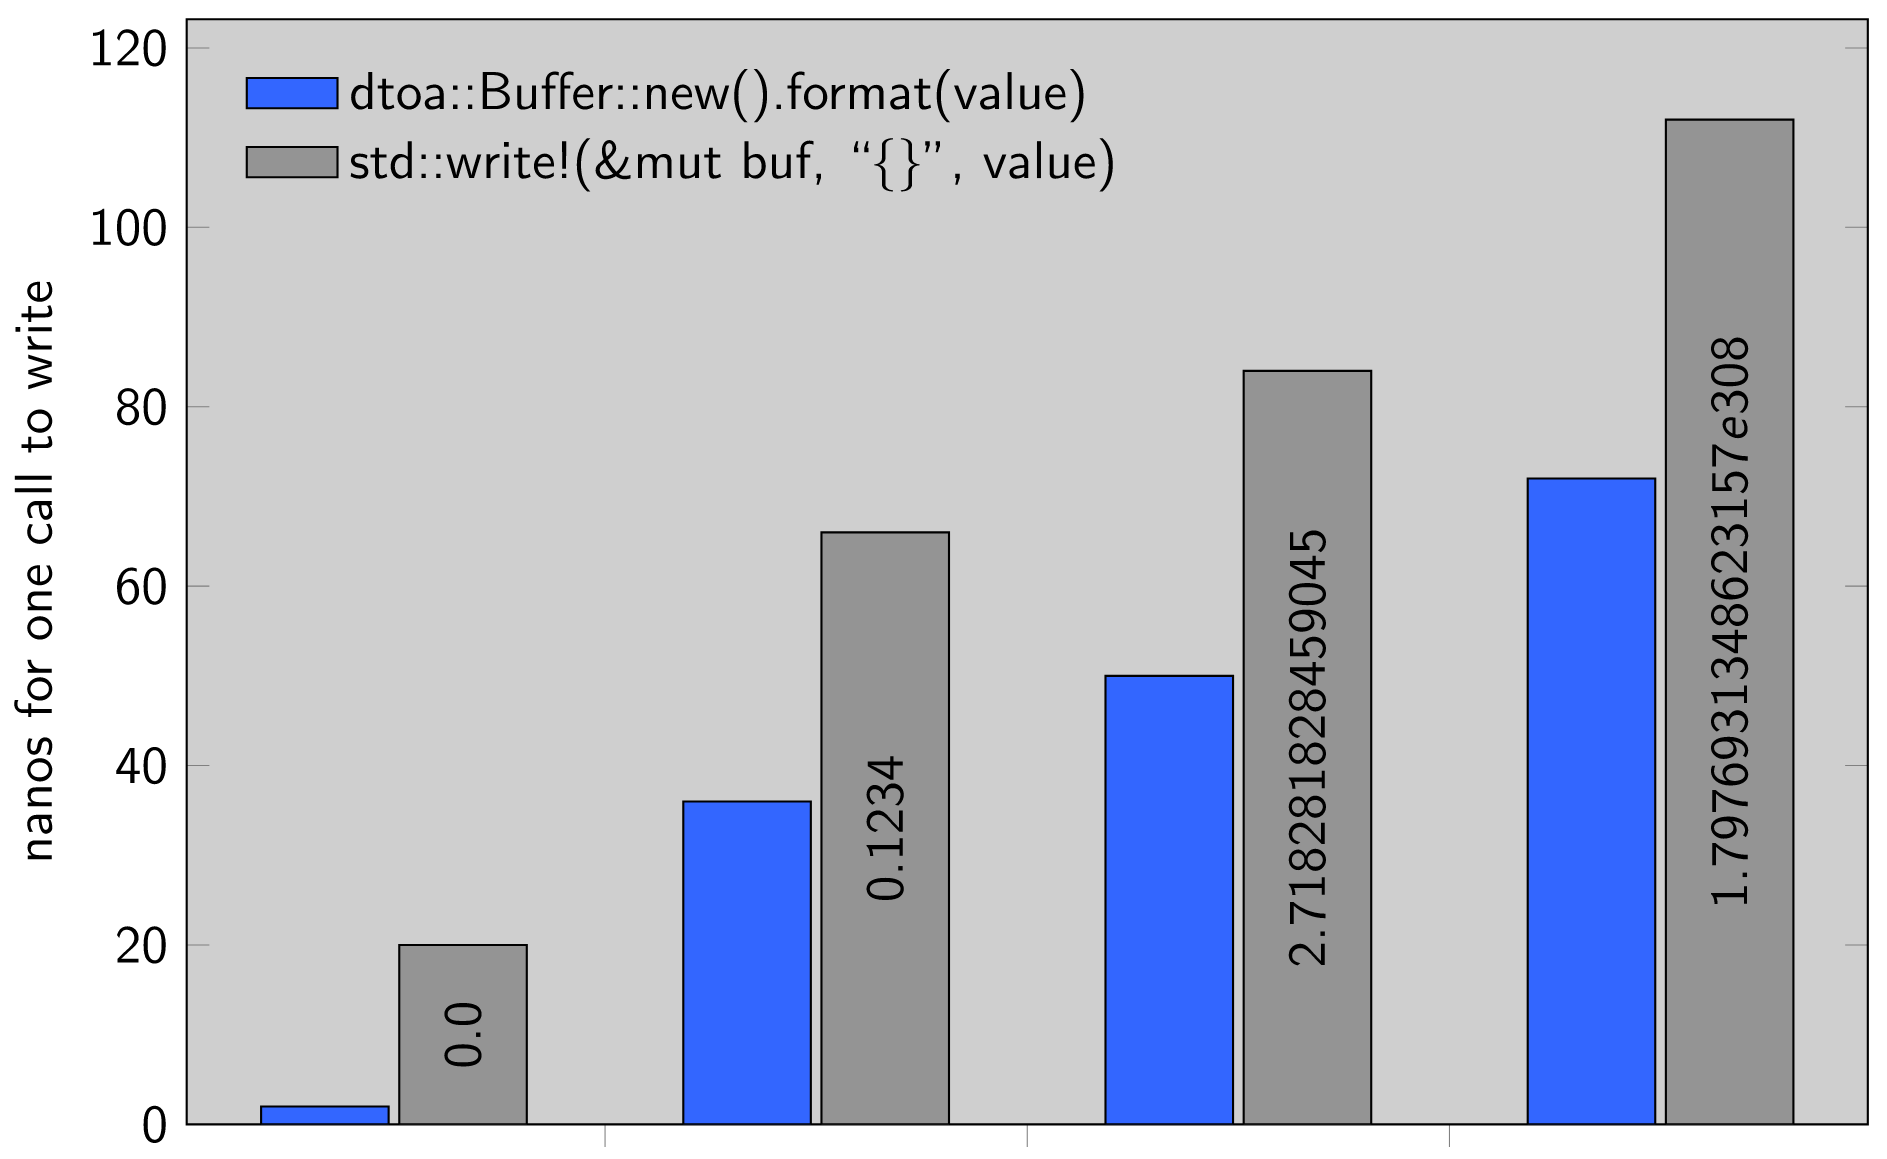
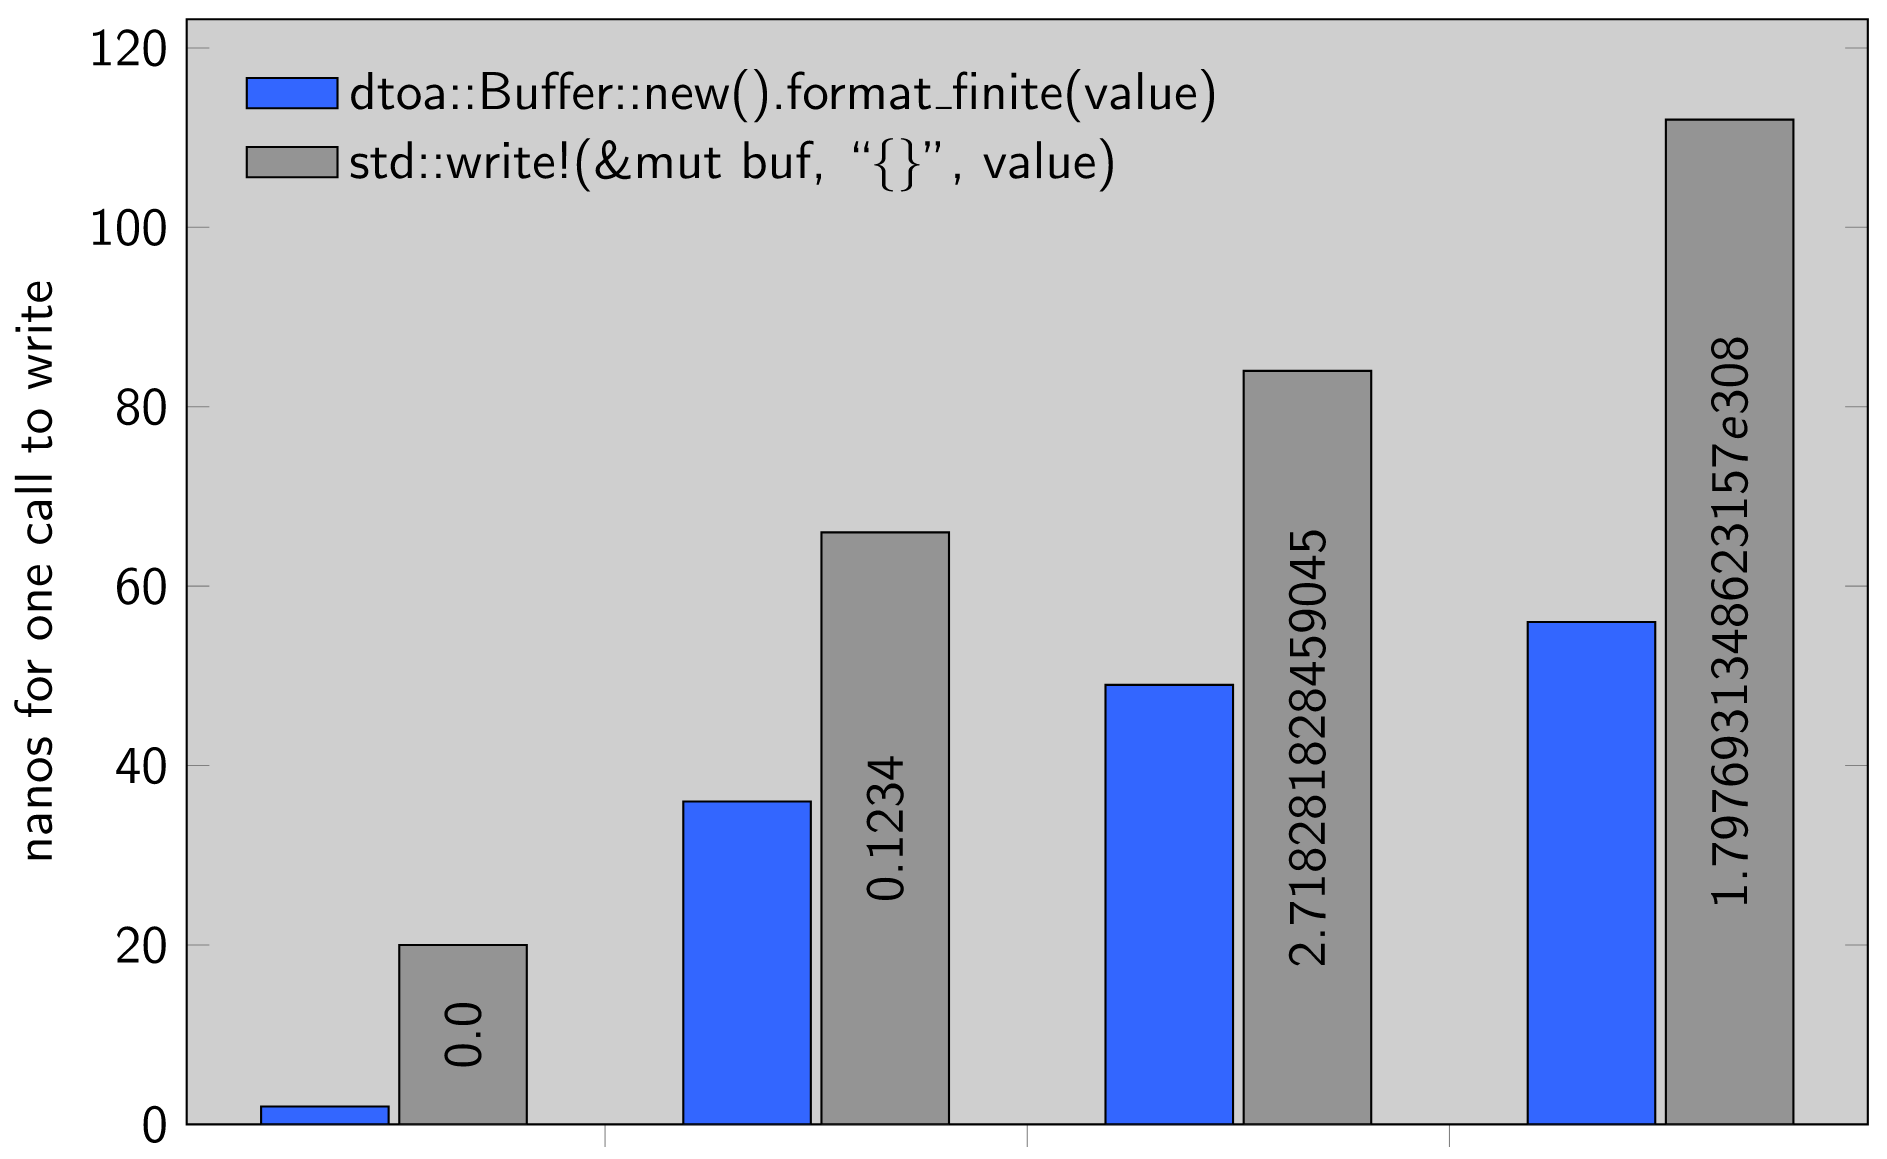
Switch to format_finite in benchmark to match ryu crate

Changed region(s): [[0.7992, 0.4038, 0.8914, 0.5591], [0.4918, 0.0621, 0.6455, 0.0932], [0.584, 0.5591, 0.6455, 0.5902]]

diff --git a/benches/bench.rs b/benches/bench.rs
@@ -18,7 +18,7 @@ macro_rules! benches {
                     let mut buffer = dtoa::Buffer::new();
 
                     b.iter(|| {
-                        let printed = buffer.format(black_box($value));
+                        let printed = buffer.format_finite(black_box($value));
                         black_box(printed);
                     });
                 }

diff --git a/chart/performance.tex b/chart/performance.tex
@@ -30,7 +30,7 @@
     fill=none,
   },
   legend entries={
-    dtoa::Buffer::new().format(value)\\
+    dtoa::Buffer::new().format\_finite(value)\\
     std::write!(\&mut buf, ``\{\}'', value)\\
   },
   legend cell align=left,
@@ -58,8 +58,8 @@
   ] coordinates {
     (0, 2)
     (1, 36)
-    (2, 50)
-    (3, 72)
+    (2, 49)
+    (3, 56)
   };
   \addplot[
     black,
